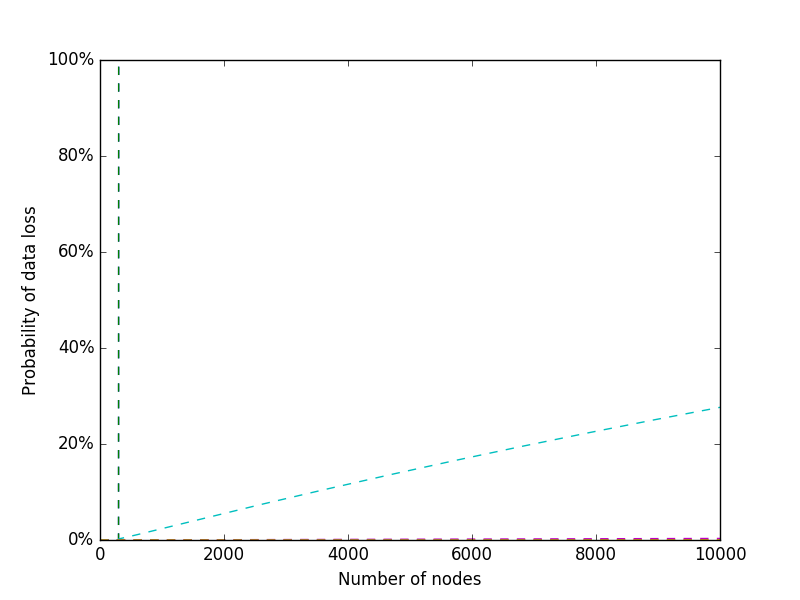
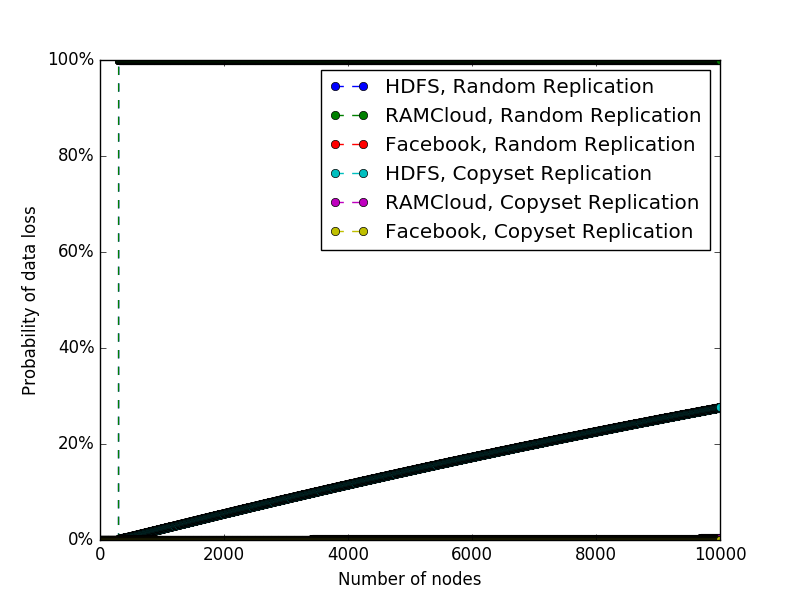
Added new figure

Changed region(s): [[0.1562, 0.09, 0.9062, 0.42], [0.125, 0.66, 0.9062, 0.9]]

diff --git a/Main.py b/Main.py
@@ -73,7 +73,10 @@ def generateFigure6(schemeNames, data):
    # add data
    for key, schemeName in schemeNames:
       x, y = zip(*data[key])
-      plt.plot(x, y, label=schemeName, linestyle='dashed')
+      plt.plot(x, y, label=schemeName, linestyle='dashed', marker='o')
+
+   # add legend
+   plt.legend()
 
    # set x-axis
    plt.xlabel('Number of nodes')
